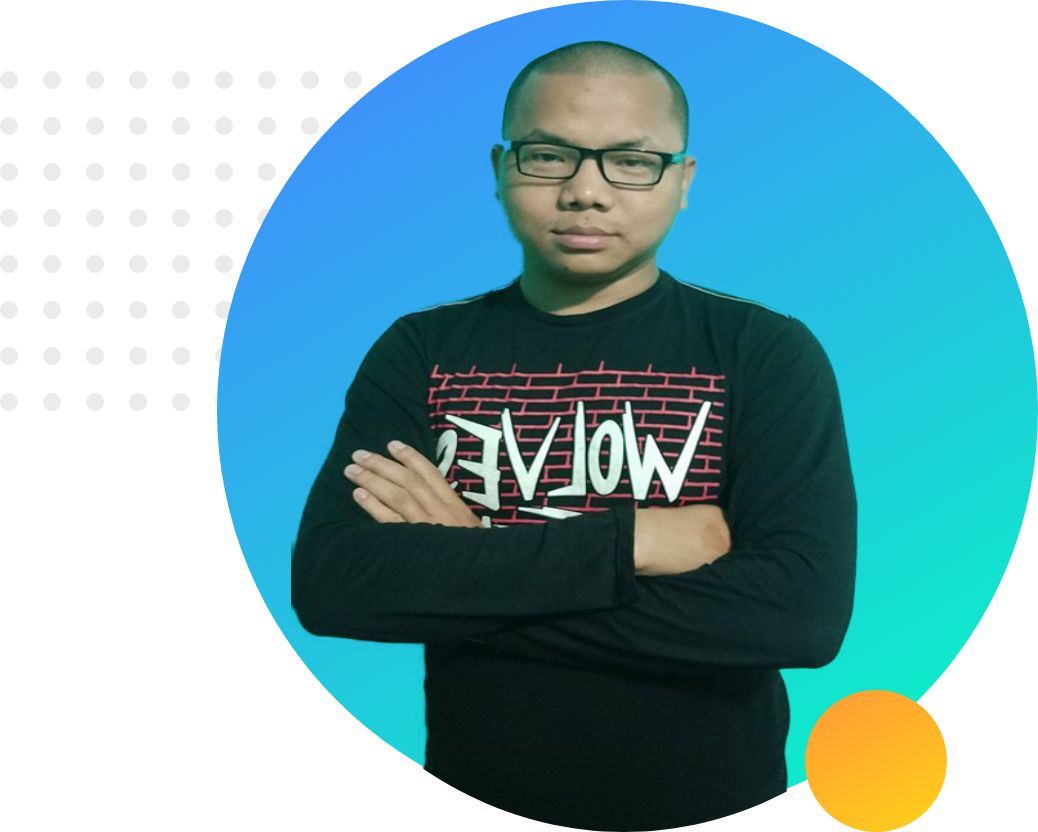
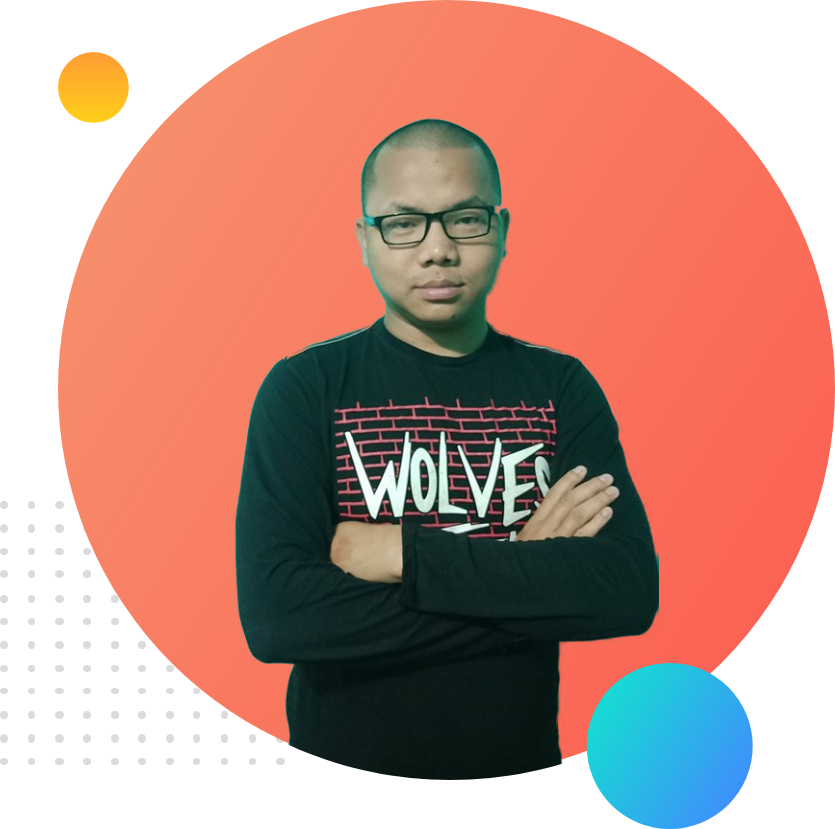
complete website

diff --git a/index.html b/index.html
@@ -4,21 +4,48 @@
     <meta charset="UTF-8">
     <meta name="viewport" content="width=device-width, initial-scale=1.0">
     <title>Suresh Chakma Web Portfolio</title>
-    <link href="https://fonts.googleapis.com/css2?family=Roboto+Slab:wght@900&display=swap" rel="stylesheet">
+    <link href="https://fonts.googleapis.com/css2?family=Open+Sans+Condensed:ital,wght@1,300&display=swap" rel="stylesheet">
     <link rel="stylesheet" href="style.css">
 </head>
 <body>
     <section class="top-banner">
         <div class="half-width">
             <h1>Welcome To</h1>
-            <h1><span class="name">Suresh</span> Website</h1>
-            <h3>World Class Professional Web Developer.</h3>
+            <h1><span class="color-highlight">Mr. Chakma's</span> Website</h1>
+            <h3>World's Class Professional Web Developer.</h3>
             <p>We serve the number one of the best web developer in the wolrd. If you want to develop any type of website, then you can contact with us to develop personal, professional, business, Blog, Social Media and E-commerce Website. Thats why we are best in the world. Trust is first in the world. Thanks you all.</p>
-            <a class="link-button" href="https://www.facebook.com/radamon.changma.cht" target="_blank">Hire Me</a>
+            <a class="link-button" href="https://www.linkedin.com/in/suresh-chakma-a02570176/" target="_blank">Hire Me</a>
         </div>
         <div class="half-width">
             <img src="images/profile/SureshPotyfolio-1.png" alt="">
         </div>
     </section>
+    <section class="dream-area">
+            <div class="half-width">
+                <img src="images/profile/SureshPortfolio-2.png" alt="">
+            </div>
+            <div class="half-width">
+                    <h2>Big Dream</h2>
+                    <h3 style="color: crimson;">Become a World's No. 1 Web Developer.</h3>
+                    <p>Educational requirements for web developers vary with the setting they work in and the type of work they do. Requirements range from a high school diploma to a bachelor’s degree. Web developers need knowledge of both programming and graphic design.</p>
+                    <a class="link-button" href="https://www.facebook.com/radamon.changma.cht" target="_blank">DOWNLOAD RESUME</a>
+            </div>
+    </section>
+    <section class="experience-area">
+            <h2>Experiences</h2>
+            <div id="full-stack" class="half-width single-experience">
+                <h2>Full Stack Web Developer</h2>
+                <h3 class="color-highlight">2021 -Present | Pro level Web Developer</h3>
+                <p>FULL STACK DEVELOPER is an engineer who works on both client-side and server-side software. This type of software developer works on the Full Stack of an application meaning Front End Technology, Back End Development Languages, Database, Server, API, and version Controlling Systems. Hence, the name "Full Stack" Developer.</p>
+            </div>
+            <div id="baby-web" class="half-width single-experience">
+                <h2>Baby Web Developer</h2>
+                <h3 class="color-highlight">2020-2021 | Programming Hero Learner.</h3>
+                <p>Developing websites means you'll be working with multiple languages, including HTML, CSS, and Javascript. Almost every program, whether online or in-person, teaches you how to develop websites starting with HTML and CSS. This is perhaps because they're the ultimate building blocks of the web. </p>
+            </div>
+    </section>
+    <footer class="footer">
+        <p>© Suresh Chakma 2021, all rights reserved.</p>
+    </footer>
 </body>
 </html>

diff --git a/style.css b/style.css
@@ -1,12 +1,15 @@
 
 body{
     margin: 0;
-    font-family: 'Roboto Slab', serif;
+    font-family: 'Open Sans Condensed', sans-serif;
 }
 h1{
     font-size: 50px;
 }
-.name{
+h2{
+    font-size: 40px;
+}
+.color-highlight{
     color: orange;
     
 }
@@ -25,13 +28,49 @@ h1{
 }
 section{
     height: 500px;
+    padding-bottom: 150px;
 }
 
 .link-button{
     text-decoration: none;
-    background-color: royalblue;
+    background-image: linear-gradient(45deg, lightSalmon, tomato);
     padding: 10px 20px;
     border-radius: 5px;
     color: white;
     font-weight: 700;
+}
+h3{
+    color: slateblue;
+}
+.dream-area{
+    background-image: url("images/profile/dream-bg.png");
+    background-repeat: no-repeat;
+    background-position: right;
+}
+
+.single-experience{
+    box-shadow: 10px 10px 40px gray;
+    border-radius: 5px;
+    height: 80%;
+    background-color: white;
+}
+.experience-area{
+    background-image: url("images/profile/exp-bg.png");
+    background-repeat: no-repeat;
+    background-position: left;
+}
+#full-stack{
+    border-left: 7px solid;
+    border-image: linear-gradient(180deg, lightSalmon, tomato);
+    border-image-slice: 1;
+}
+
+#baby-web{
+    border-left: 7px solid;
+    border-image: linear-gradient(180deg, blue, cyan);
+    border-image-slice: 1;
+}
+.footer{
+    text-align: center;
+    color: red;
 }
